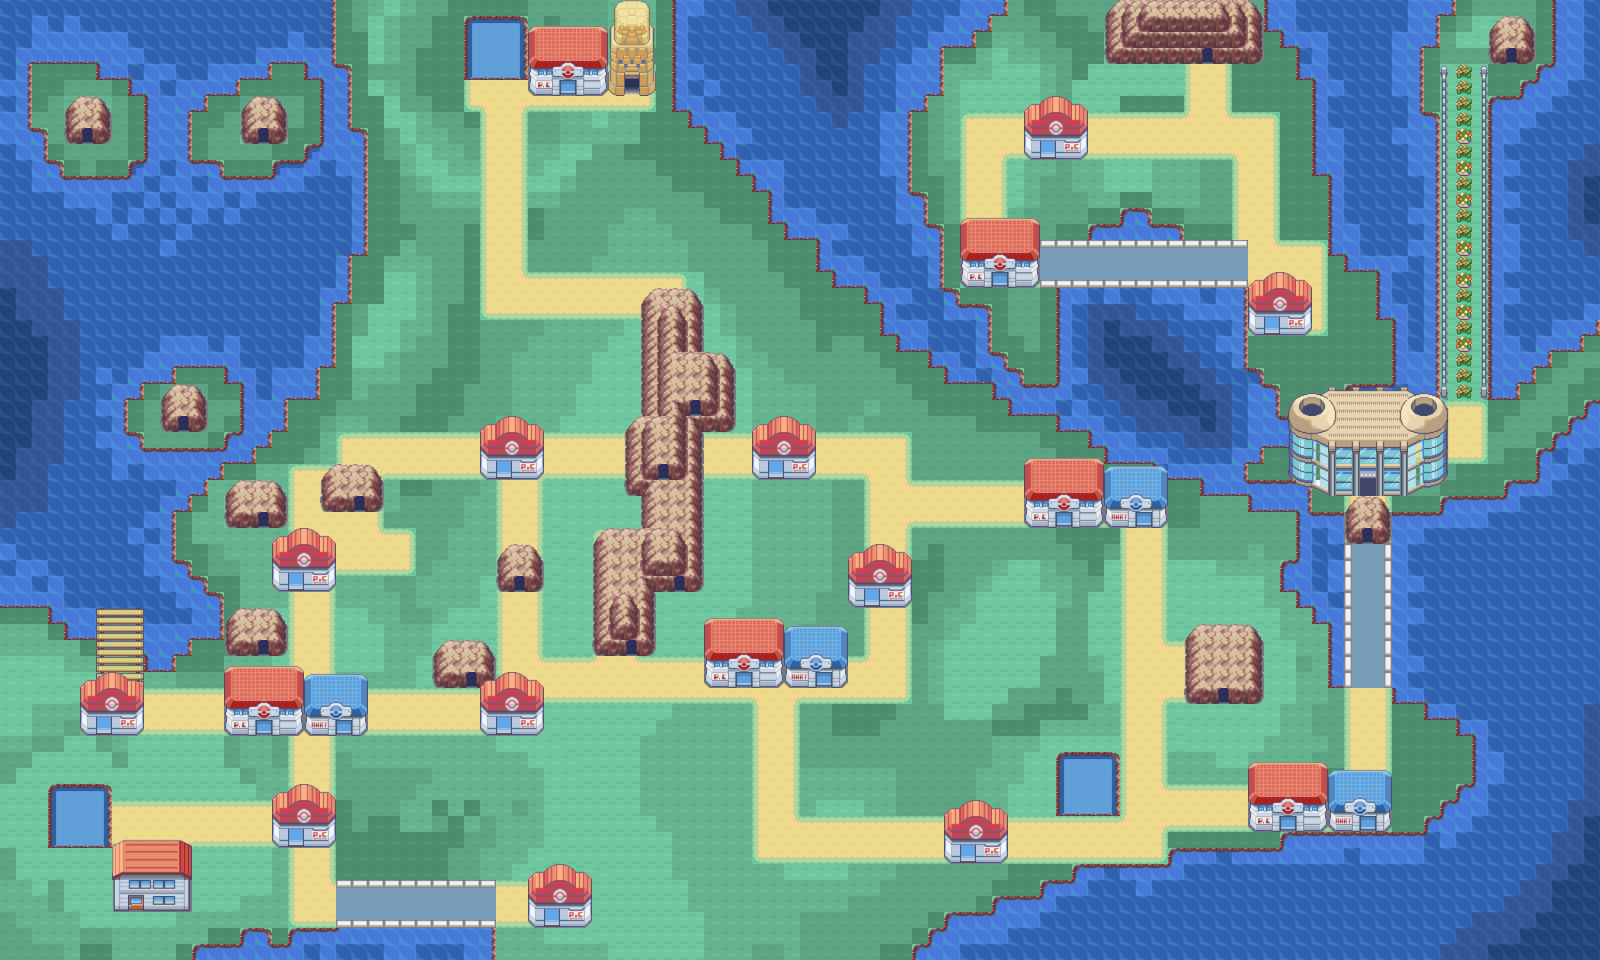
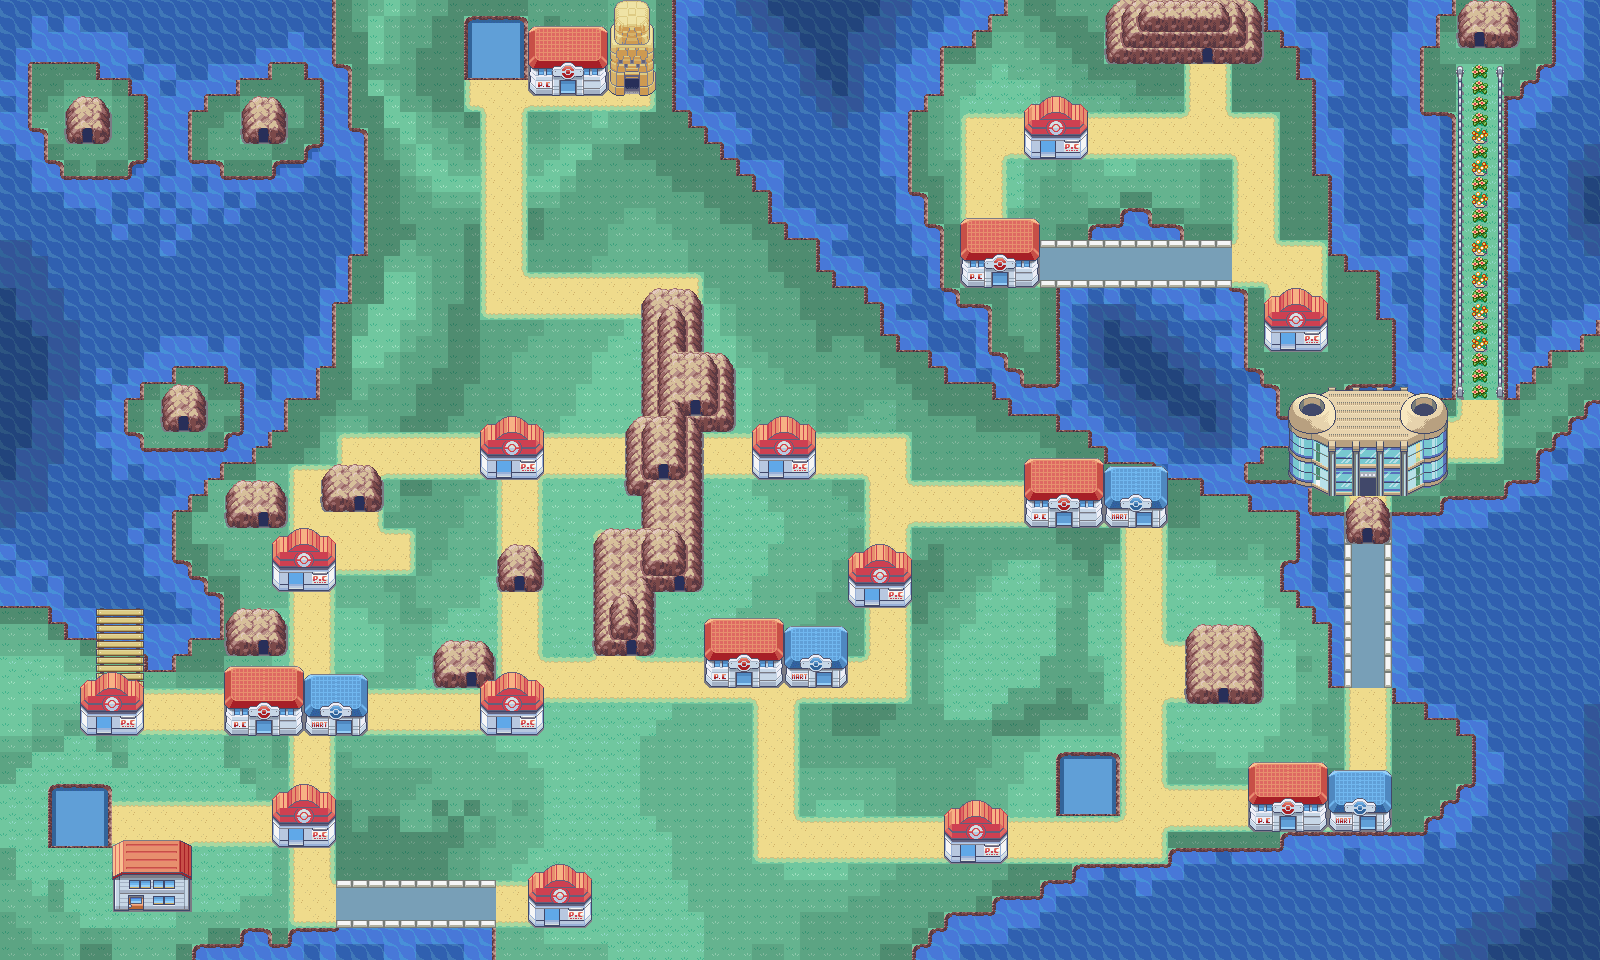
Move some things around slightly

diff --git a/src/components/SinnohSVG.html b/src/components/SinnohSVG.html
@@ -54,33 +54,6 @@
         })
     %>
 
-    <!--Route 205 extra-->
-    <%- include('templates/mapRoute',
-        { route: 205, region: 3
-        , height: 4, width: 2
-        , x: 18, y: 29
-        , noText: true
-        })
-    %>
-
-     <!--Route 205 extra bit 1-->
-    <%- include('templates/mapRoute',
-        { route: 205, region: 3
-        , height: 4, width: 3
-        , x: 21, y: 32
-        , noText: true
-        })
-    %>
-
-    <!--Route 205 extra bit 3-->
-    <%- include('templates/mapRoute',
-        { route: 205, region: 3
-        , height: 3, width: 2
-        , x: 24, y: 33
-        , noText: true
-        })
-    %>
-
     <!--Route 205-->
     <%- include('templates/mapRoute',
         { route: 205, region: 3
@@ -88,8 +61,7 @@
         , x: 24, y: 27
         })
     %>
-
-    <!--Route 205 extra bit 2-->
+    <!--Route 205 Extension-->
     <%- include('templates/mapRoute',
         { route: 205, region: 3
         , height: 2, width: 3
@@ -97,11 +69,26 @@
         , noText: true
         })
     %>
-
-    <!--Route 205 extra bit 2-->
+    <!--Route 205 Extension-->
     <%- include('templates/mapRoute',
         { route: 205, region: 3
-        , height: 2, width: 1
+        , height: 4, width: 2
+        , x: 18, y: 29
+        , noText: true
+        })
+    %>
+     <!--Route 205 Extension-->
+    <%- include('templates/mapRoute',
+        { route: 205, region: 3
+        , height: 3, width: 5
+        , x: 21, y: 33
+        , noText: true
+        })
+    %>
+    <!--Route 205 Extension-->
+    <%- include('templates/mapRoute',
+        { route: 205, region: 3
+        , height: 1, width: 4
         , x: 20, y: 32
         , noText: true
         })
@@ -370,9 +357,18 @@
     <!--Route 224-->
     <%- include('templates/mapRoute',
         { route: 224, region: 3
-        , height: 2.5, width: 4
-        , x: 90.5, y: 25
+        , height: 3, width: 4
+        , x: 91, y: 25
         , rotate: true
+        })
+    %>
+    <!--Route 224 Extension-->
+    <%- include('templates/mapRoute',
+        { route: 224, region: 3
+        , height: 0.5, width: 3
+        , x: 90.5, y: 26
+        , rotate: true
+        , noText: true
         })
     %>
 
@@ -422,25 +418,15 @@
     <!--Route 229-->
     <%- include('templates/mapRoute',
         { route: 229, region: 3
-        , height: 2, width: 5
-        , x: 78, y: 15
-        })
-    %>
-
-    <!--Route 229 extra-->
-    <%- include('templates/mapRoute',
-        { route: 229, region: 3
-        , height: 1, width: 4
-        , x: 82, y: 17
-        , noText: true
-        , rotate: true
+        , height: 3, width: 6
+        , x: 77, y: 15
         })
     %>
 
     <!--Route 230-->
     <%- include('templates/mapRoute',
         { route: 230, region: 3
-        , height: 3, width: 13
+        , height: 3, width: 12
         , x: 65, y: 15
         })
     %>
@@ -621,7 +607,7 @@
     <!--Resort Area-->
     <%- include('templates/mapTown',
         { name: "Resort Area"
-        , x: 78, y: 17
+        , x: 79, y: 18
         , height: 4, width: 4
         })
     %>
@@ -809,8 +795,8 @@
     <!--Flower Paradise-->
     <%- include('templates/mapDungeon',
         { name: "Flower Paradise"
-        , x: 93, y: 1
-        , height: 3, width: 3
+        , x: 91, y: 0
+        , height: 3, width: 4
         })
     %>
 
